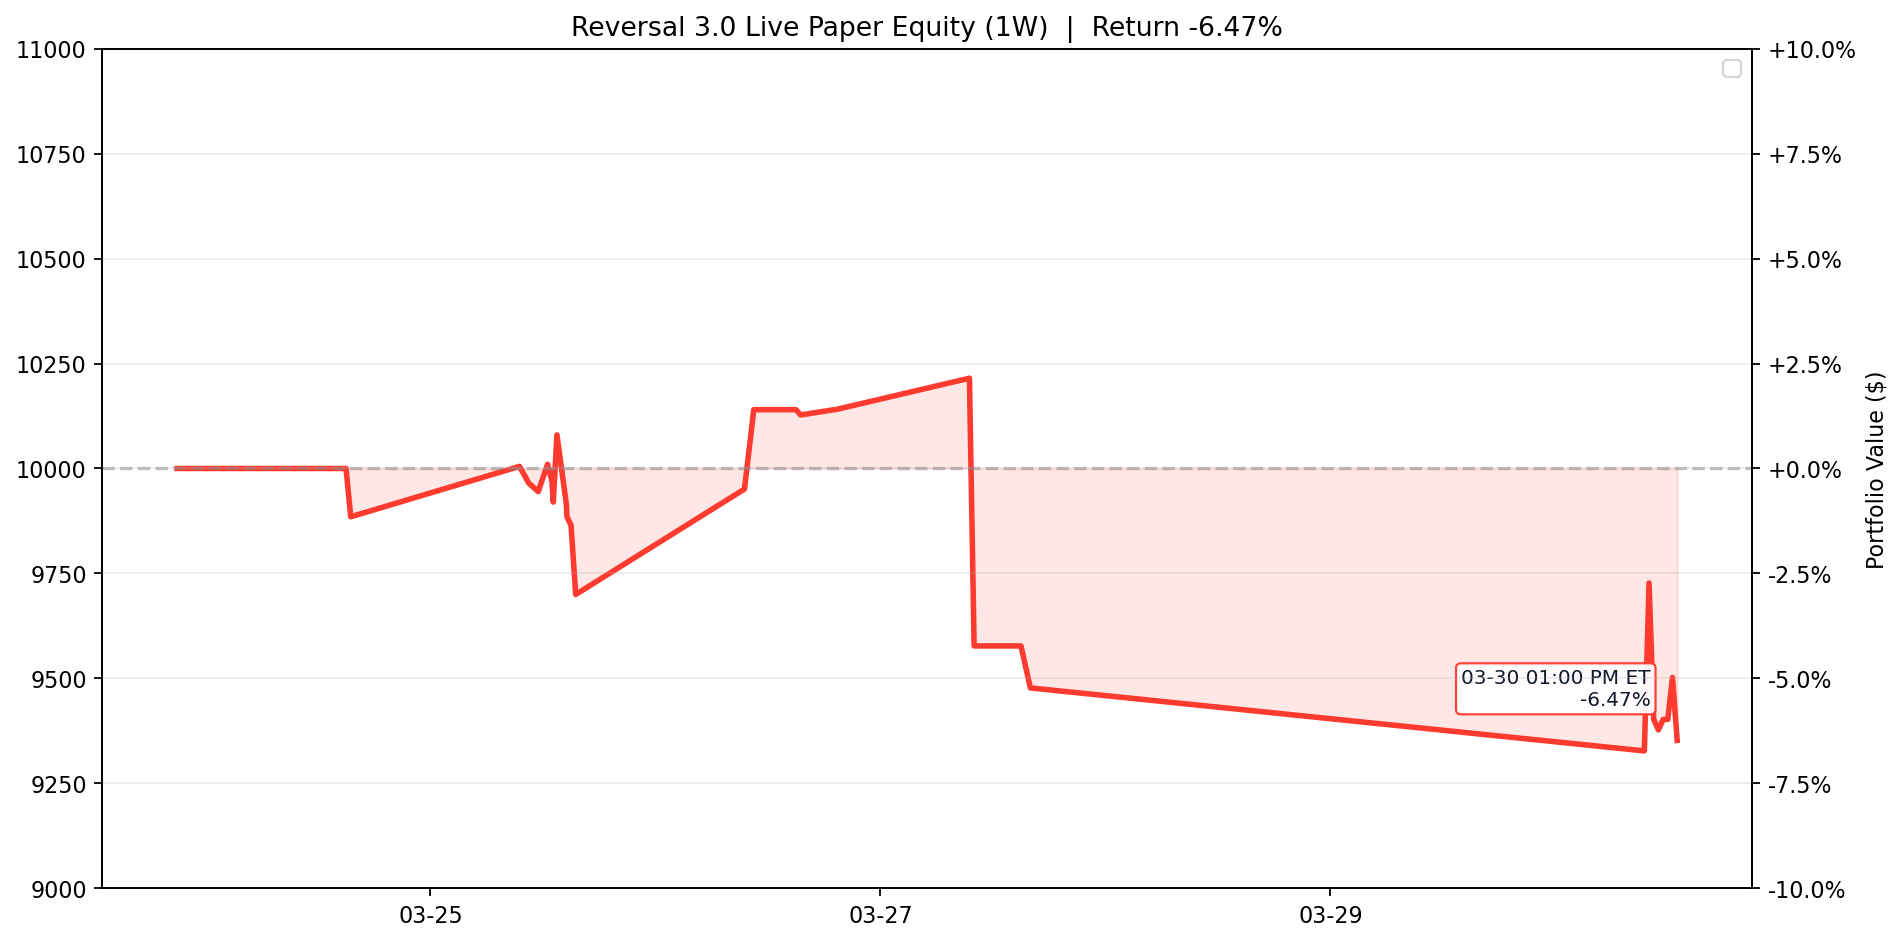
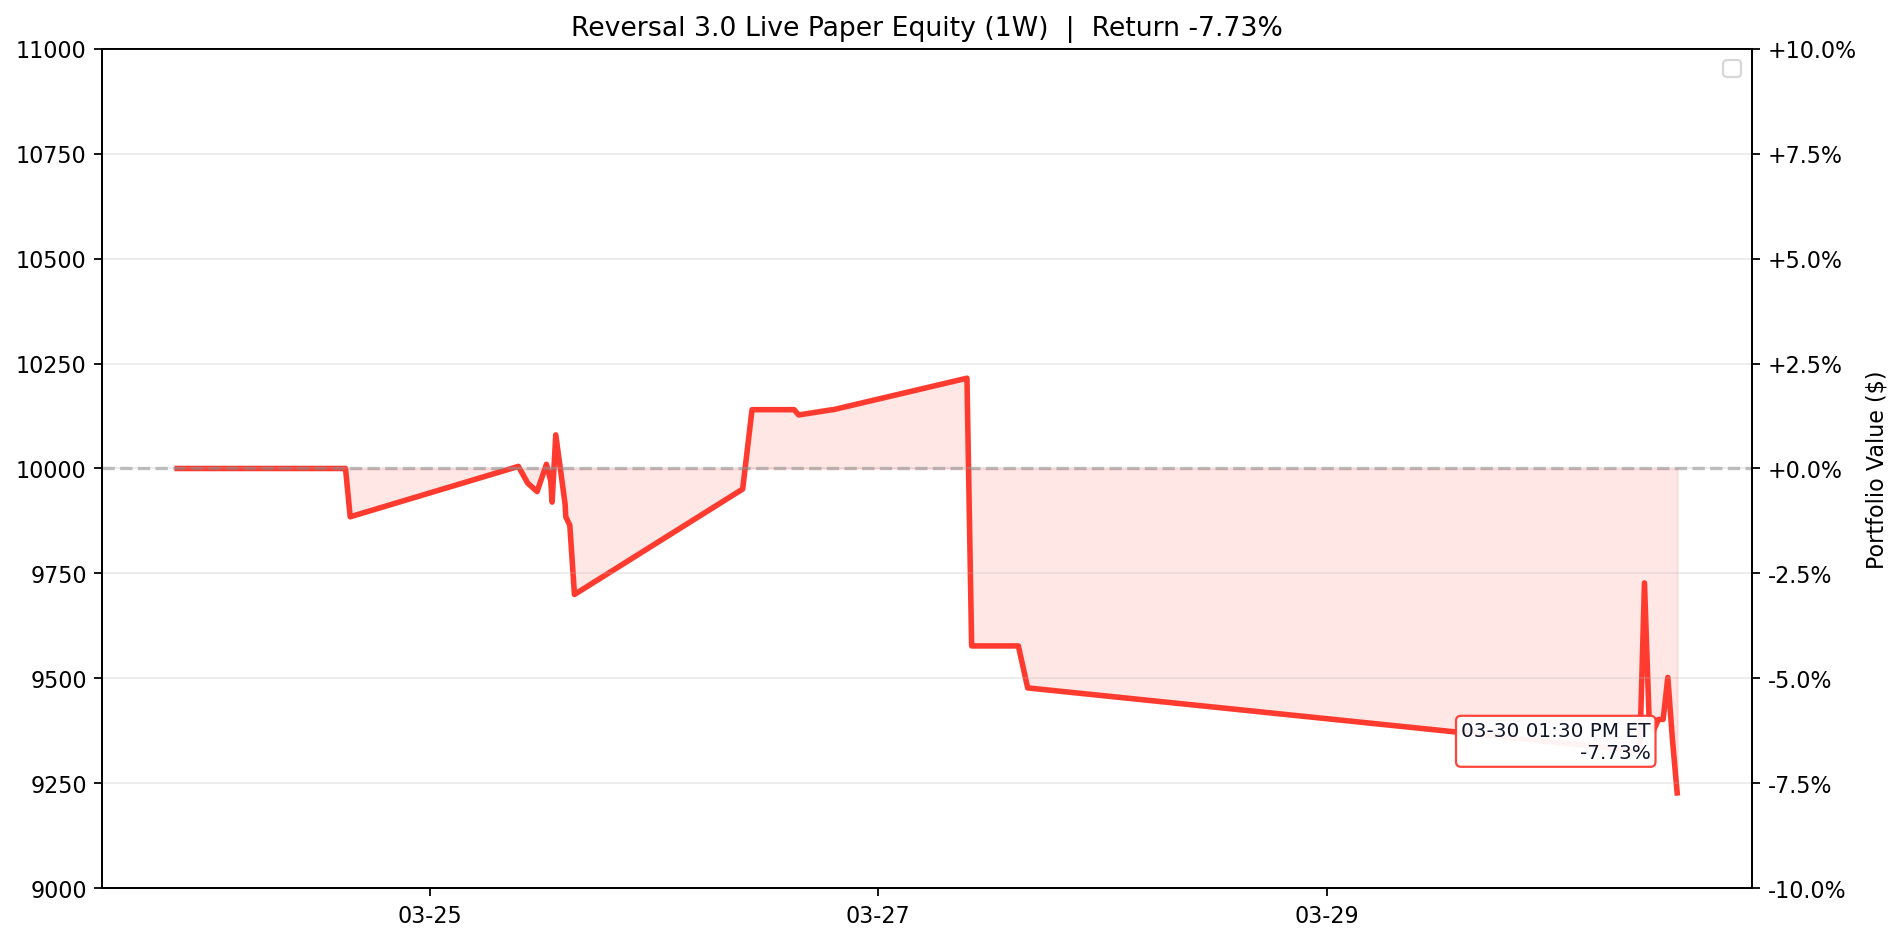
Update Reversal 3.0 live paper test 2026-03-30 13:30 ET

diff --git a/results/reversal_3_0_live/README.md b/results/reversal_3_0_live/README.md
@@ -1,7 +1,7 @@
 # Reversal 3.0 Live Paper Test
 
-Last updated (ET): `2026-03-30 13:00:04 EDT`
-Last processed slot: `manage_1300`
+Last updated (ET): `2026-03-30 13:30:05 EDT`
+Last processed slot: `manage_1330`
 
 ## Active Configuration
 
@@ -20,16 +20,16 @@ Last processed slot: `manage_1300`
 ## Portfolio Snapshot
 
 - Cash: `$4,977.50`
-- Equity: `$9,352.50`
+- Equity: `$9,227.50`
 - Realized PnL: `$-422.50`
-- Unrealized PnL: `$-225.00`
+- Unrealized PnL: `$-350.00`
 - Open positions: `1`
 
 ## Open Positions
 
 ```text
 ticker    contract_symbol entry_trade_date  business_days_held  entry_option_price  current_option_price  entry_spot  current_spot  unrealized_pnl  unrealized_return_pct  success_rate  matched_signals  current_drop_pct  entry_iv_pct  current_iv_pct  rolling_sigma_20d_pct
-   HON HON260501C00225000       2026-03-27                   1                 9.2                  8.75      223.64        224.26          -225.0                  -4.89         100.0               20              0.68         39.47           36.63                  24.88
+   HON HON260501C00225000       2026-03-27                   1                 9.2                   8.5      223.64        223.64          -350.0                  -7.61         100.0               20              0.68         39.47           35.93                  24.88
 ```
 
 ## Today's Closed Trades (2026-03-30)
@@ -40,18 +40,18 @@ _None_
 
 ```text
 ticker  success_rate_%  matched_signals  current_drop_%  target_rebound_$  target_price  rolling_sigma_20d_%  call_candidate
-  FANG          100.00               22            0.99              1.40        201.24                24.78            True
-  INTC           91.67               12            4.50              1.36         42.55                64.48            True
-  ASML           91.67               12            3.06             27.88       1290.52                47.46            True
-  ROST           90.91               22            0.77              1.15        211.20                33.28            True
-  AVGO           89.47               19            2.23              4.69        298.67                39.28            True
-  PLTR           89.29               28            1.80              1.80        142.29                49.53            True
-   AMD           84.62               26            2.27              3.21        200.62                56.13            True
-   APP           83.33               42            0.81              2.16        380.27                72.26            True
-  AXON           81.82               44            0.63              1.89        429.13                53.89            True
-   TXN           80.00               25            1.29              1.71        189.60                29.79            True
-  AMAT           80.00               10            3.87              9.14        333.25                54.89            True
-   WDC          100.00                7            7.54             14.54        269.11                77.70           False
+  FANG          100.00               20            1.38              1.95        201.00                24.78            True
+  NVDA           93.10               29            0.98              1.15        167.03                32.71            True
+  DXCM           93.02               43            0.62              0.27         62.14                32.07            True
+  INTC           90.00               10            4.83              1.46         42.50                64.48            True
+  PLTR           87.50               24            2.62              2.63        141.93                49.53            True
+  AVGO           87.50               16            2.57              5.40        298.36                39.28            True
+  TSLA           82.86               35            1.10              2.78        360.64                35.33            True
+   AMD           81.82               22            2.90              4.10        200.23                56.13            True
+   APP           80.56               36            1.86              4.96        379.08                72.26            True
+   TXN           80.00               15            2.02              2.69        189.18                29.79            True
+  KLAC           80.00               10            3.83             38.72       1426.61                53.64            True
+   WDC          100.00                6            8.60             16.58        268.24                77.70           False
 ```
 
 ## Recent Events

diff --git a/README.md b/README.md
@@ -3,15 +3,15 @@
 <!-- reversal-3.0-live:start -->
 ## Reversal 3.0 Live Paper Test
 
-- Last updated (ET): `2026-03-30 13:00:04 EDT`
-- Equity: `$9,352.50` | Realized: `$-422.50` | Unrealized: `$-225.00` | Open positions: `1`
+- Last updated (ET): `2026-03-30 13:30:05 EDT`
+- Equity: `$9,227.50` | Realized: `$-422.50` | Unrealized: `$-350.00` | Open positions: `1`
 - Today closed trades: `0`
-- Current slot: `manage_1300`
+- Current slot: `manage_1330`
 - Chart: trailing `1W` with ET timestamps
 
 ```text
 ticker    contract_symbol  current_option_price  unrealized_pnl  unrealized_return_pct  business_days_held
-   HON HON260501C00225000                  8.75          -225.0                  -4.89                   1
+   HON HON260501C00225000                   8.5          -350.0                  -7.61                   1
 ```
 
 ![Reversal 3.0 Live Equity 1W](assets/reversal_3_0_live_equity.png)
